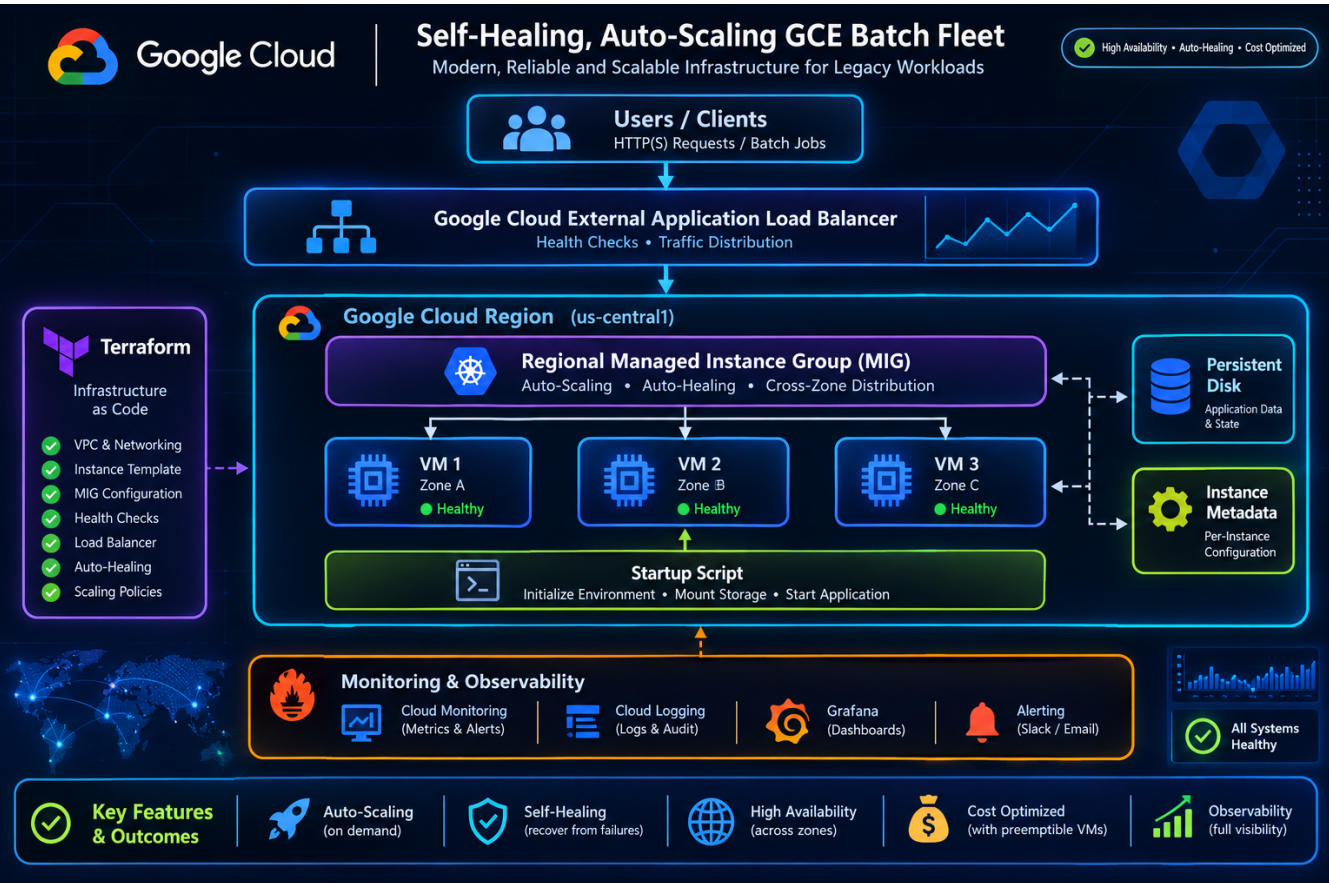
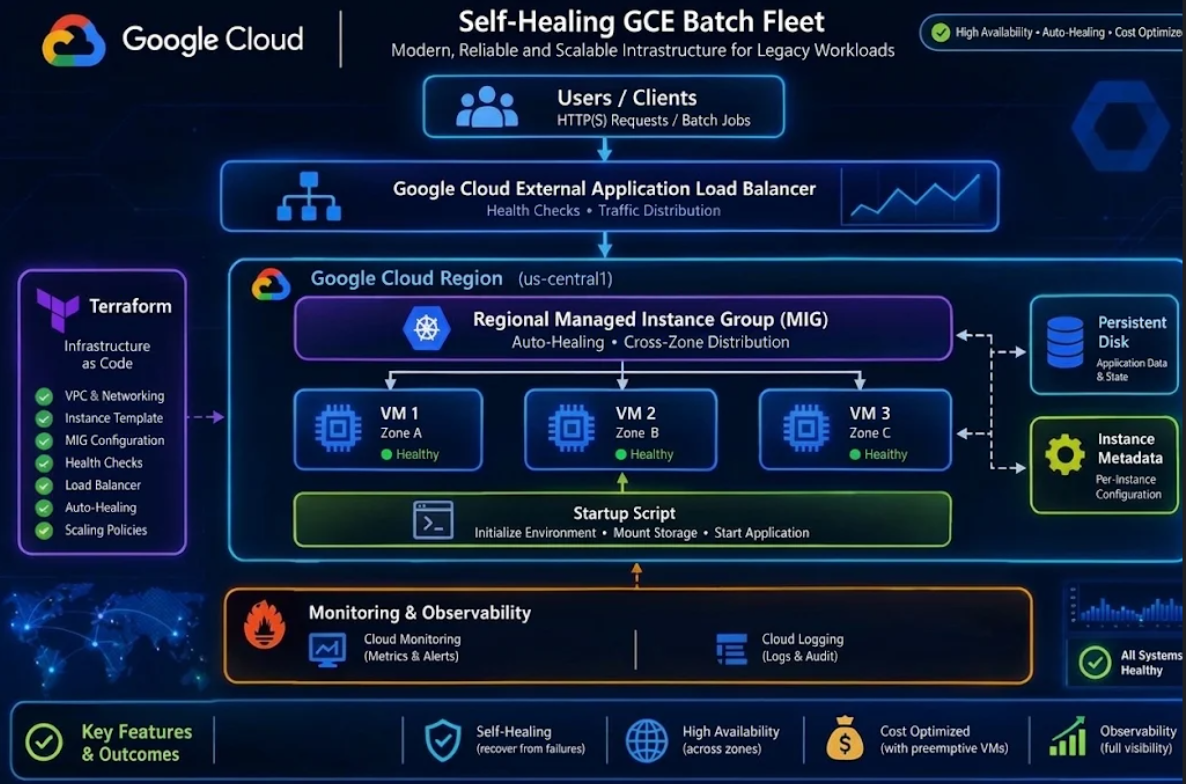
Explain why the stateful fleet does not autoscale

diff --git a/docs/04-managed-instance-group.md b/docs/04-managed-instance-group.md
@@ -163,6 +163,22 @@ OUT=~/phase04-evidence.txt ./scripts/phase-04/verify.sh
 
 ## Notes & Issues
 
+### Decision: no autoscaling
+The fleet runs a fixed three nodes with auto-healing but no autoscaler. That
+is a consequence of the stateful design, not an omission. Google Cloud states
+that "you cannot use autoscaling or scaling schedules if your MIG has stateful
+configuration", and this MIG has two kinds: the preserved `batch-data` disk
+and, from Phase 6, per-instance metadata. Autoscaling assumes any node can be
+deleted on scale-in, while stateful configuration exists to keep a specific
+node's disk and identity. The free trial's 8 vCPU cap would also limit any
+scaling to one extra node, with nothing left for auto-healing replacements.
+
+A production version would split the roles: a small stateful core for
+coordination, and a stateless, autoscaled worker MIG pulling jobs from a
+shared queue or bucket.
+
+Source: [Configuring stateful MIGs: Limitations](https://cloud.google.com/compute/docs/instance-groups/configuring-stateful-migs#limitations)
+
 ### Decision: delete the Phase 3 test VM first
 The test VM uses 2 vCPUs. With it running, the three MIG nodes would bring the
 total to 8, the free trial maximum, leaving nothing for a replacement during

diff --git a/README.md b/README.md
@@ -35,6 +35,8 @@ A self-healing Google Compute Engine fleet for a legacy batch application that c
 - The load balancer kept serving from the other zones throughout.
 - **Stretch goals:** Spot VMs and cross-zone distribution.
 
+**Autoscaling is not used, by design.** Google Cloud does not allow autoscaling on MIGs with stateful configuration, and this fleet keeps each node's data disk and shard across recreation. See [Phase 4](docs/04-managed-instance-group.md).
+
 Evidence is in [`screenshots/`](screenshots/).
 
 ## Repository layout
@@ -56,8 +58,6 @@ terraform apply
 ```
 
 Credentials and `*.tfvars` are never committed.
-
-## Cleanup
 
 ```bash
 terraform destroy
